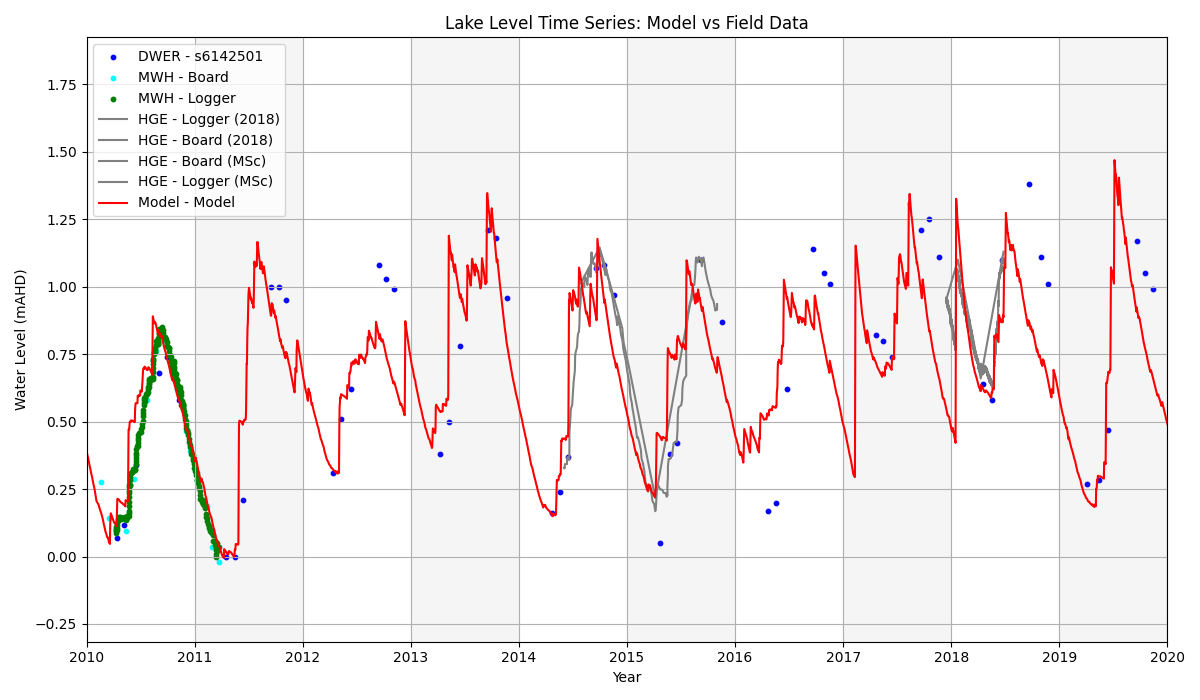
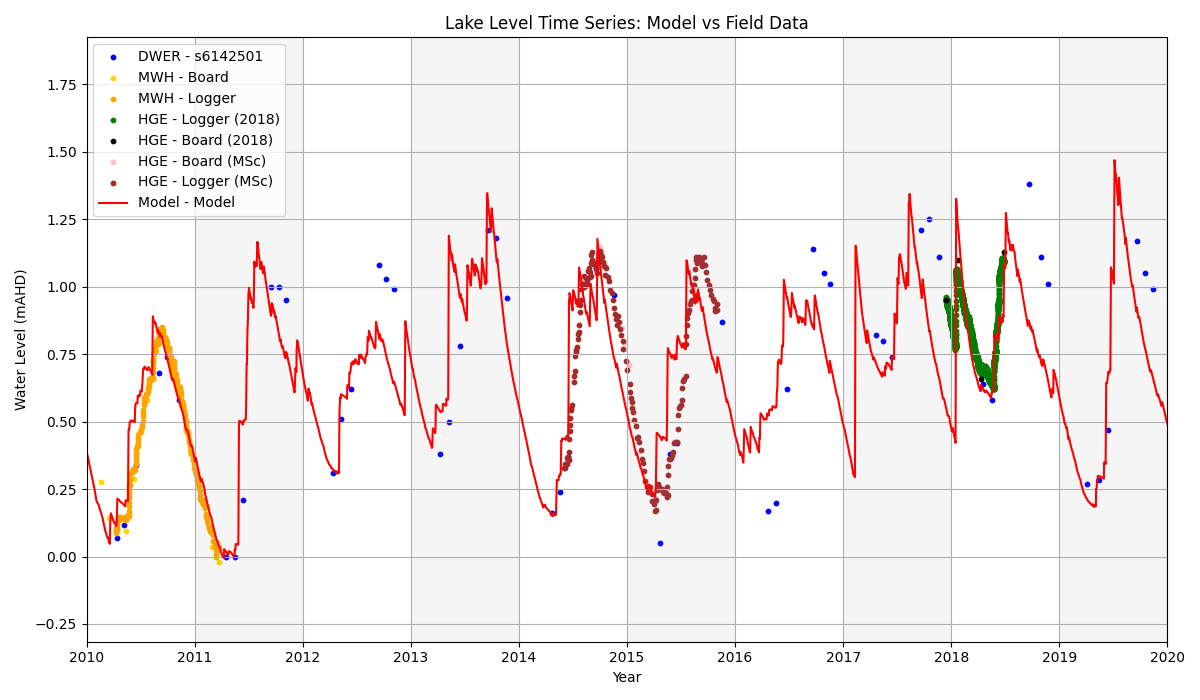
updates

diff --git a/Code/plotting/compare_mulitple_models_threepanel.py b/Code/plotting/compare_mulitple_models_threepanel.py
@@ -32,15 +32,16 @@ import os
 # -------------------- Configuration --------------------
 
 xlim_start = pd.Timestamp("2010-01-01")
-xlim_end = pd.Timestamp("2024-01-01")
+xlim_end = pd.Timestamp("2020-01-01")
 xtickint = 1
 
 # -------------------- Model Configuration --------------------
 
 model_configs = [
-    {"dir": "Model/richmond/output", "color": "red", "label": "Model A"},
-    {"dir": "Model/richmond/output_2", "color": "blue", "label": "Model B"},
-    {"dir": "Model/richmond/output_3", "color": "green", "label": "Model C"},
+    {"dir": "Model/richmond/output_base", "color": "black", "label": "base"},
+    {"dir": "Model/richmond/output_nosw", "color": "blue", "label": "no stormwater"},
+    {"dir": "Model/richmond/output_nosw_higw", "color": "green", "label": "... + hi gw"},
+    {"dir": "Model/richmond/output_nosw_higw_cc", "color": "red", "label": ".. .. + climate change", "linewidth": "0.1"},
 ]
 
 # -------------------- Helper Function --------------------
@@ -56,7 +57,7 @@ def apply_plot(ax, df, ylabel, variable_filter):
         site_df = df[df["Site"] == site]
         label = f"{site_df['Agency'].iloc[0]} - {site}"
         color = color_map.get(site, "gray")
-        ax.plot(site_df["DateTime"], site_df["Reading"], label=site, color=color)
+        ax.plot(site_df["DateTime"], site_df["Reading"], label=site, color=color, linewidth=0.8)
 
     ax.set_ylabel(ylabel)
     ax.grid(True)
@@ -88,7 +89,7 @@ for config in model_configs:
     model_wq = load_model_wq(wq_path)
 
     model_temp = model_wq.copy()
-    model_temp["Reading"] = model_temp["temp"]
+    model_temp["Reading"] = model_temp["temp"].rolling(window=7, center=True).mean()
     model_temp["Agency"] = config["label"]
     model_temp["Site"] = config["label"]
     model_temp["Variable"] = "Temperature"
@@ -106,15 +107,15 @@ color_map = {config["label"]: config["color"] for config in model_configs}
 
 # -------------------- Plotting --------------------
 
-fig, axes = plt.subplots(3, 1, figsize=(12, 9), sharex=True)
+fig, axes = plt.subplots(3, 1, figsize=(10, 12), sharex=True)
 
 apply_plot(axes[0], df_level, "Lake Level (mAHD)", "Water Level")
 axes[0].set_title("Lake Level Comparison")
 
-apply_plot(axes[1], df_temp, "Temperature (°C)", "Temperature")
+apply_plot(axes[1], df_temp, "Temperature (°C)", "Surface Temperature")
 axes[1].set_title("Temperature Comparison")
 
-apply_plot(axes[2], df_sal, "Salinity (PSU)", "Salinity")
+apply_plot(axes[2], df_sal, "Salinity (g/L)", "Surface salinity")
 axes[2].set_title("Salinity Comparison")
 
 axes[2].set_xlabel("Year")

diff --git a/Code/plotting/compare_model_field_lake_level.py b/Code/plotting/compare_model_field_lake_level.py
@@ -46,16 +46,16 @@ xlim_end = pd.Timestamp("2020-01-01")
 
 # Plot styles by site - customize marker types and colors for each site
 plot_styles = {
-    "s6142501":   {"kind": "scatter", "color": "blue"},
-    "Stadia":     {"kind": "scatter", "color": "orange"},
-    "WL":         {"kind": "scatter", "color": "black"},
-    "Logger":     {"kind": "scatter", "color": "green"},
-    "Grab":       {"kind": "scatter", "color": "pink"},
-    "MSc board":  {"kind": "scatter", "color": "yellow"},
-    "MSc Logger": {"kind": "scatter", "color": "brown"},
-    "Board":      {"kind": "scatter", "color": "cyan"},
-    "Model":      {"kind": "line", "color": "red"},
-    
+    "Model":        {"kind": "line", "color": "red"},
+    "Board":  {"kind": "scatter", "color": "gold"},
+    "Logger (MSc)":   {"kind": "scatter", "color": "orange"},
+    "s6142501":     {"kind": "scatter", "color": "blue"},
+    "Logger":       {"kind": "scatter", "color": "orange"},
+    "Board (2018)":           {"kind": "scatter", "color": "black"},
+    "Logger (2018)":       {"kind": "scatter", "color": "green"},
+    "Board (MSc)":         {"kind": "scatter", "color": "pink"},
+    "Logger (MSc)":   {"kind": "scatter", "color": "brown"},
+    "Board (2022)":        {"kind": "scatter", "color": "cyan"},
 }
 
 # Interval for X Ticks (yearly) - adjust for more or fewer ticks on x-axis

diff --git a/Code/plotting/compare_model_field_threepanel.py b/Code/plotting/compare_model_field_threepanel.py
@@ -29,7 +29,7 @@ import os
 # -------------------- Configuration --------------------
 
 xlim_start = pd.Timestamp("2010-01-01")
-xlim_end = pd.Timestamp("2024-01-01")
+xlim_end = pd.Timestamp("2023-01-01")
 xtickint = 1
 
 plot_styles = {
@@ -61,7 +61,7 @@ def apply_plot(ax, df, ylabel, variable_filter):
         if style["kind"] == "line":
             ax.plot(site_df["DateTime"], site_df["Reading"], label=label, color=style["color"])
         elif style["kind"] == "scatter":
-            ax.scatter(site_df["DateTime"], site_df["Reading"], label=label, color=style["color"], s=10)
+            ax.scatter(site_df["DateTime"], site_df["Reading"], label=label, color=style["color"], s=5)
 
     ax.set_ylabel(ylabel)
     ax.grid(True)
@@ -109,7 +109,7 @@ df_sal = pd.concat([field_sal, model_sal], ignore_index=True)
 
 # -------------------- Plotting --------------------
 
-fig, axes = plt.subplots(3, 1, figsize=(12, 9), sharex=True)
+fig, axes = plt.subplots(3, 1, figsize=(10, 12), sharex=True)
 
 apply_plot(axes[0], df_level, "Lake Level (mAHD)", "Water Level")
 axes[0].set_title("Lake Level Comparison")
